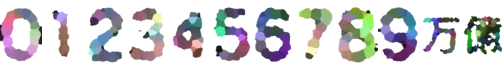
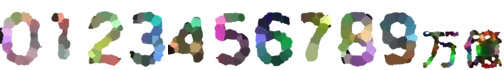
画像更新

diff --git a/materials/nums/nums.rb b/materials/nums/nums.rb
@@ -15,7 +15,7 @@ name = { "万"=>"man", "億"=>"oku" }
   gb=" -gaussian-blur #{25}x#{10}"
   `convert -size #{w1/4}x#{h1/4} xc: +noise Random #{gb} -resize 400% -crop #{w0}x#{h0}+#{m}+#{m} -auto-level -auto-level n.png`
   `magick  -background black -fill white -font "ヒラギノ角ゴシック-W#{weight}" \
-            -size #{w0}x#{h0} -gravity center label:#{x} \
+            -size #{w0}x#{h0} -gravity south label:#{x} \
             a.png`
   `convert n.png a.png -compose multiply -composite  #{gb} -spread 25 -gaussian-blur 5x2 -paint 20 -paint 20 -auto-level b.png`
   `convert b.png -colorspace HSL -separate lumi.png`
@@ -27,4 +27,5 @@ name = { "万"=>"man", "億"=>"oku" }
 end
 
 list = [*0..9,"man", "oku"].map{ "#{_1}.png" }.join(" ")
-`convert +append #{list} -resize #{w*12}x#{h} nums.webp`
+`convert +append #{list} -resize #{w*12}x#{h} ../../src/assets/nums.webp`
+`rm *.png`
